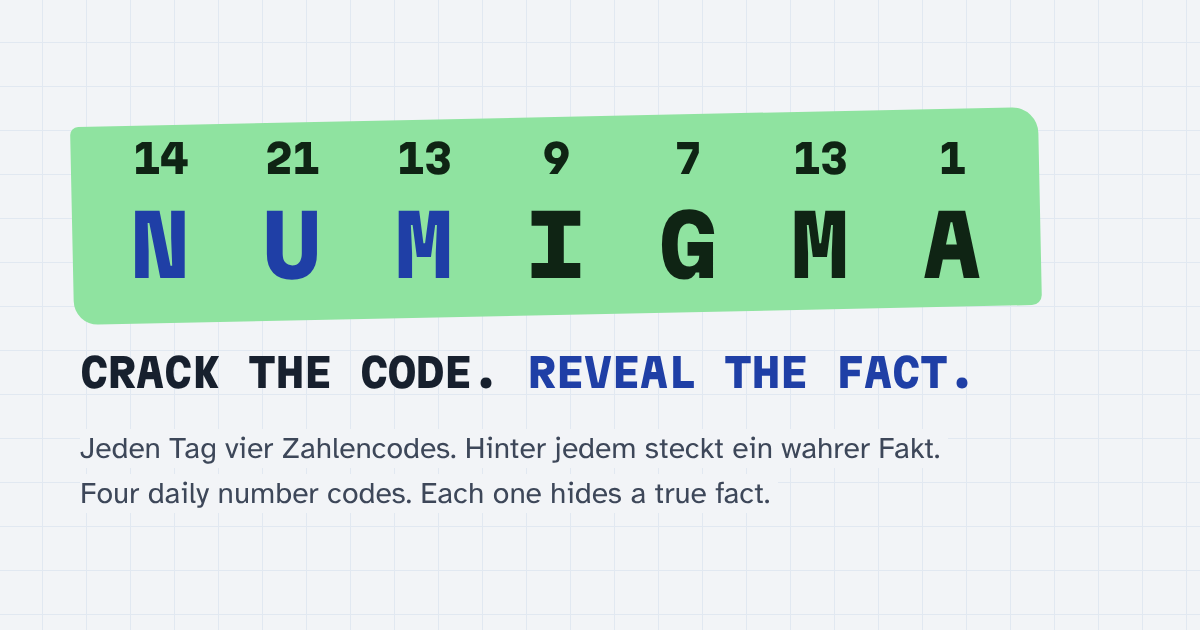
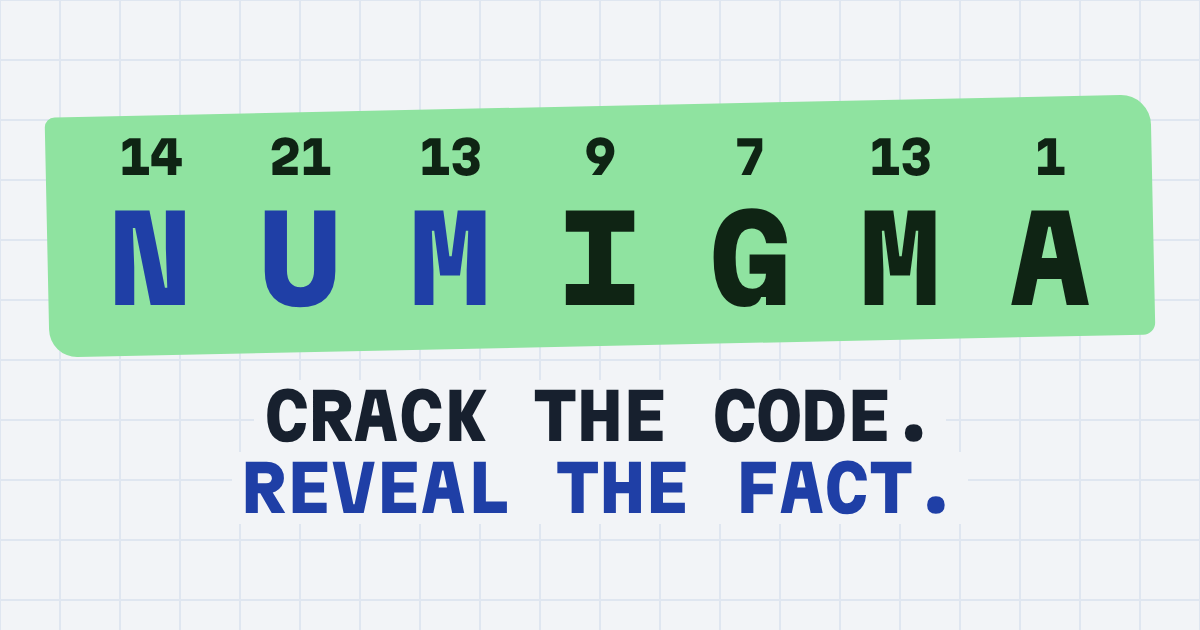
Vorschaubild vereinfacht, Wiederholungslücken stabil, Redaktionsanleitung und Werkzeuge
- og.png: großes Logo und Slogan, ohne Kleingedrucktes, auch als kleine Vorschau lesbar
- kern.js: repeatGaps, damit nachgelieferte Fakten bereits gespielte Wiederholungstage nicht verändern (mit Test)
- Querformat ab 640 px, kleines Handy quer bittet ums Drehen und hält die Uhr an
- Anleitung für neue Fakten, Belegsuche, Nachweis-Skript

Claude-Session: https://claude.ai/code/session_01UizJ3MfA2PHDqjVNM3Cj6o

diff --git a/_dev/tools/nachweise.js b/_dev/tools/nachweise.js
@@ -1,0 +1,94 @@
+/* Bildschirmfotos und Messwerte für _dev/nachweise/nachher (Vergleich mit vorher).
+   Aufruf im Ordner _dev: node tools/nachweise.js */
+'use strict';
+const fs = require('fs');
+const path = require('path');
+const { setup, openPage, solution, NF } = require('../tests/browser');
+
+const OUT = path.join(__dirname, '..', 'nachweise', 'nachher');
+fs.mkdirSync(OUT, { recursive: true });
+const R = {};
+
+(async () => {
+  const env = await setup();
+  const shots = [[390, 844, 'light', 'de', '390-de-hell'], [390, 844, 'dark', 'en', '390-en-dunkel'], [320, 568, 'light', 'de', '320-de-hell']];
+  for (const [width, height, scheme, lang, name] of shots) {
+    const ctx = await env.browser.newContext({ viewport: { width, height }, deviceScaleFactor: 2, colorScheme: scheme, locale: lang === 'de' ? 'de-AT' : 'en-GB', timezoneId: 'Europe/Vienna', serviceWorkers: 'block', hasTouch: true, isMobile: true });
+    await ctx.clock.install({ time: new Date('2026-10-24T15:00:00+02:00') });
+    const page = await ctx.newPage();
+    await page.goto(env.srv.url);
+    await page.waitForTimeout(200);
+    await page.screenshot({ path: path.join(OUT, `${name}-1-erster-besuch.png`) });
+    R[`${name} Kurz-Einstieg passt ohne Scrollen`] = await page.evaluate(() => { const d = document.getElementById('introDlg'); return d.scrollHeight <= d.clientHeight + 1; });
+    const word = lang === 'de' ? 'EIS' : 'CAT';
+    for (const L of word) await page.click(`#introBody [data-demo="${L}"]`);
+    await page.screenshot({ path: path.join(OUT, `${name}-1b-erster-besuch-geknackt.png`) });
+    await page.click('#introGo');
+    await page.screenshot({ path: path.join(OUT, `${name}-2-start.png`) });
+    await page.click('#startBtn');
+    await page.waitForTimeout(100);
+    if (width === 320) R['320 px: Tastenbreite px'] = await page.evaluate(() => Math.round(document.querySelector('.k[data-k="Q"] button').getBoundingClientRect().width * 10) / 10);
+    await page.screenshot({ path: path.join(OUT, `${name}-3-spiel.png`) });
+    await page.click('#statsBtn');
+    await page.waitForTimeout(100);
+    R[`${name} Code bei offenem Dialog sichtbar`] = await page.evaluate(() => getComputedStyle(document.querySelector('#board .words')).visibility !== 'hidden');
+    await page.screenshot({ path: path.join(OUT, `${name}-4-dialog-uhr-pausiert-code-verdeckt.png`) });
+    await page.keyboard.press('Escape');
+    await page.click('#pauseBtn');
+    await page.screenshot({ path: path.join(OUT, `${name}-5-pause.png`) });
+    await page.click('#resumeBtn');
+    await page.click('#helpBtn');
+    R[`${name} Anleitung Höhe px (zugeklappt)`] = await page.evaluate(() => Math.round(document.querySelector('#helpDlg').scrollHeight));
+    await page.screenshot({ path: path.join(OUT, `${name}-6-anleitung.png`) });
+    await page.keyboard.press('Escape');
+    for (const w of solution(4, lang, 'easy')) for (const ch of w) { if (/[A-Z]/.test(ch)) await page.keyboard.press(ch); else await page.click(`#kb .k[data-k="${ch}"] button`); }
+    await page.waitForTimeout(300);
+    await page.evaluate(() => { document.getElementById('stage').scrollTop = 1e6; });
+    await page.screenshot({ path: path.join(OUT, `${name}-7-ergebnis.png`) });
+    await ctx.close();
+  }
+  // Querformat
+  {
+    const page = await openPage(env, { width: 844, height: 390, mobile: true });
+    await page.click('#startBtn');
+    await page.screenshot({ path: path.join(OUT, '844x390-de-hell-querformat.png') });
+    await page.context().close();
+  }
+  // Hilfe-Farben: dasselbe Vorgehen wie vorher (Schlüssel bei Wort 1, Tipp bei Wort 2 überschrieben)
+  {
+    const page = await openPage(env, { clipboard: true });
+    await page.click('#tab-hard'); await page.click('#startBtn');
+    const hw = solution(4, 'de', 'hard');
+    await page.click('#keyBtn'); await page.click('#confirmYes');
+    for (const w of [hw[0]]) for (const L of w) await page.click(`#kb .k[data-k="${L}"] button`);
+    await page.click('#board .w[data-w="1"] .c[data-i="0"]'); await page.click('#hintBtn');
+    await page.click('#board .w[data-w="1"] .c[data-i="0"]'); await page.click('#kb .k[data-k="Q"] button');
+    for (let wi = 1; wi < hw.length; wi++) {
+      await page.click(`#board .w[data-w="${wi}"] .c[data-i="0"]`);
+      for (const L of hw[wi]) await page.click(`#kb .k[data-k="${L}"] button`);
+    }
+    await page.click('#result [data-act=share]');
+    R['Hilfe-Farben: Teilen-Text nach Schlüssel (Wort 1) und überschriebenem Tipp (Wort 2)'] = (await page.evaluate(() => navigator.clipboard.readText())).replace(/http:\/\/127\.0\.0\.1:\d+\//, 'https://gr3hab.github.io/numfact/');
+    await page.context().close();
+  }
+  // Prüfseite: wie GitHub Pages ausgeliefert?
+  {
+    const page = await (await env.browser.newContext()).newPage();
+    const r = await page.goto(env.srv.url + 'pruefen.html');
+    R['pruefen.html HTTP-Status (Hauptordner)'] = r.status();
+    const r2 = await page.goto(env.srv.url + '_dev/tools/pruefen.html');
+    R['_dev/tools/pruefen.html HTTP-Status'] = r2.status();
+    await page.context().close();
+  }
+  await env.close();
+  // Zuordnung DE/EN und Buchstaben pro Stufe über den ganzen Vorrat
+  const P = NF.plannedDays(); let mism = 0; const days = []; const letters = { easy: 0, hard: 0, mirror: 0, impossible: 0 };
+  for (let d = 0; d < P; d++) {
+    const k = NF.addDays(NF.CONFIG.launchDate, d), D = NF.buildDay(k, 'de'), E = NF.buildDay(k, 'en');
+    if (NF.MODES.some(m => D.puzzles[m.id].fact.id !== E.puzzles[m.id].fact.id)) { mism++; days.push(d + 1); }
+    NF.MODES.forEach(m => { letters[m.id] += D.puzzles[m.id].words.reduce((n, w) => n + [...w.plain].length, 0); });
+  }
+  R[`Zuordnung DE/EN und Buchstaben (${P} Tage)`] = { mism, days, avgLetters: Object.fromEntries(Object.entries(letters).map(([k, v]) => [k, Math.round(v / P)])) };
+  fs.writeFileSync(path.join(OUT, 'messwerte.json'), JSON.stringify(R, null, 1));
+  console.log(JSON.stringify(R, null, 1));
+})();

diff --git a/kern.js b/kern.js
@@ -13,7 +13,11 @@ const CONFIG = {
   hintsPerPuzzle: 3,
   maxCells: 18,               // so viele Kästchen passen auf kleinen Handys (360 px) in eine Zeile
   frozenDays: 16,             // #1–#16 behalten ihre ursprüngliche Zuordnung (nicht ändern)
-  warnDays: 14                // Warnung, wenn der Faktenvorrat für weniger Tage reicht
+  warnDays: 14,               // Warnung, wenn der Faktenvorrat für weniger Tage reicht
+  // Nur nötig, falls der Vorrat einmal ausgegangen ist: Zeiträume, in denen Wiederholungen liefen.
+  // Vor dem Anhängen neuer Fakten hier eintragen, z. B. [['2027-02-01', '2027-02-04']],
+  // damit diese Tage im Archiv unverändert bleiben. Die Tests melden, wenn das vergessen wurde.
+  repeatGaps: []
 };
 
 const MODES = [
@@ -96,7 +100,10 @@ function view(f, lang) {
 function facts(lang) { return list().map(f => view(f, lang)); }
 function byId(id) { return list().find(f => f.id === id); }
 function plannedDays() { return Math.floor(list().length / 4); }
-function lastPlannedDay() { return addDays(CONFIG.launchDate, plannedDays() - 1); }
+function lastPlannedDay() {
+  const gaps = (CONFIG.repeatGaps || []).reduce((n, [a, b]) => n + dayIndex(b) - dayIndex(a) + 1, 0);
+  return addDays(CONFIG.launchDate, plannedDays() - 1 + gaps);
+}
 
 /* ------------------------------------------------------------ Zuordnung zu Tagen und Stufen
    Tag #n nimmt die Fakten 4n-3 bis 4n der Liste.
@@ -123,11 +130,23 @@ function makePuzzle(fact, mode, shift) {
 }
 
 // Ist der Vorrat aufgebraucht, wird ein früherer Tag bewusst und sichtbar wiederholt (repeatOf).
+// Welcher Tag welche Fakten bekommt: Platz in der Liste = Tag minus frühere Wiederholungstage.
+function sourceOf(idx) {
+  const P = plannedDays();
+  let before = 0;
+  for (const [a, b] of CONFIG.repeatGaps || []) {
+    const ia = dayIndex(a), ib = dayIndex(b);
+    if (idx >= ia && idx <= ib) return { src: ia > 0 ? idx % ia : 0, repeat: true };   // damals war der Vorrat bei Tag ia zu Ende
+    if (idx > ib) before += ib - ia + 1;
+  }
+  const slot = idx - before;
+  if (slot >= P && P > 0) return { src: slot % P, repeat: true };
+  return { src: slot, repeat: false };
+}
 function buildDay(key, lang) {
   lang = lang === 'en' ? 'en' : 'de';
-  const idx = Math.max(0, dayIndex(key)), P = plannedDays();
-  let src = idx, repeatOf = null;
-  if (idx >= P && P > 0) { src = idx % P; repeatOf = src + 1; }
+  const idx = Math.max(0, dayIndex(key));
+  const so = sourceOf(idx), src = so.src, repeatOf = so.repeat ? src + 1 : null;
   const picks = assignment(src, lang);
   const shift = 3 + Math.floor(mulberry32(idx * 7919 + 101)() * 21); // 3 … 23
   const puzzles = {};
@@ -188,5 +207,5 @@ function checkFacts(today) {
 }
 
 window.NF = { CONFIG, MODES, TOPICS, ALPHABET, SPECIAL, DIGRAPH, FROZEN, symStr, letterCode, mulberry32, todayKey, parseKey, dayIndex, addDays, keyOfNumber,
-  list, facts, byId, plannedDays, lastPlannedDay, assignment, buildDay, wordUnits, checkFacts };
+  list, facts, byId, plannedDays, lastPlannedDay, sourceOf, assignment, buildDay, wordUnits, checkFacts };
 })();

diff --git a/_dev/tests/daten.test.js b/_dev/tests/daten.test.js
@@ -5,7 +5,7 @@ const assert = require('node:assert/strict');
 const fs = require('fs');
 const path = require('path');
 const { execFileSync } = require('child_process');
-const { ROOT, loadNF, rawFacts, loadBase, latestLiveKey } = require('./helpers');
+const { ROOT, loadNF, rawFacts, loadBase, latestLiveKey, loadFromSources } = require('./helpers');
 
 const NF = loadNF();
 const F = rawFacts();
@@ -162,4 +162,22 @@ test('Datei fakten.js ist sauber kodiert (UTF-8, keine unsichtbaren Zeichen)', (
   const txt = src.toString('utf8');
   assert.ok(!txt.includes('�'), 'kaputtes Zeichen (�) gefunden');
   assert.doesNotMatch(txt, /[-]/, 'unsichtbare Zeichen gefunden');
+});
+
+test('Nach einer Lücke angehängte Fakten verändern die Wiederholungstage nicht', () => {
+  const kern = fs.readFileSync(path.join(ROOT, 'kern.js'), 'utf8');
+  const mk = n => Array.from({ length: n }, (_, i) => ({ id: 'n' + String(i + 1).padStart(3, '0'), thema: 'tiere', de: ['Satz Nummer ' + (i + 1) + '.', 'Erklärung lang genug.'], en: ['Sentence ' + (i + 1) + '.', 'Explanation long enough.'], quellen: [] }))
+    .map(f => ({ ...f, de: [f.de[0].replace(/\d+/, n => 'x'.repeat(+n)), f.de[1]], en: [f.en[0].replace(/\d+/, n => 'y'.repeat(+n)), f.en[1]] }));
+  const load = (facts, gaps) => loadFromSources([['f.js', 'window.NUMIGMA_FACTS = ' + JSON.stringify(facts) + ';'], ['kern.js', kern.replace('repeatGaps: []', 'repeatGaps: ' + JSON.stringify(gaps))]]);
+  const before = load(mk(80), []);                      // 20 Tage Vorrat
+  const gapDays = [20, 21, 22].map(i => before.addDays(before.CONFIG.launchDate, i));
+  const sigs = nf => gapDays.map(k => MODES.map(m => nf.buildDay(k, 'de').puzzles[m].sig).join('|'));
+  const old = sigs(before);
+  assert.ok(gapDays.every(k => before.buildDay(k, 'de').repeatOf));
+  const after = load(mk(120), [[gapDays[0], gapDays[2]]]);   // 10 Tage nachgeliefert, Lücke eingetragen
+  assert.deepEqual(sigs(after), old, 'Wiederholungstage dürfen sich nicht ändern');
+  const next = after.buildDay(after.addDays(after.CONFIG.launchDate, 23), 'de');
+  assert.equal(next.repeatOf, null);
+  assert.equal(next.puzzles.easy.fact.id >= 'n081', true, 'erster Tag nach der Lücke bekommt neue Fakten');
+  assert.equal(after.lastPlannedDay(), after.addDays(after.CONFIG.launchDate, 32));
 });

diff --git a/_dev/grafik/og.html b/_dev/grafik/og.html
@@ -1,0 +1,25 @@
+<!doctype html><html><head><meta charset="utf-8">
+<!-- Vorschaubild für geteilte Links (og.png, 1200×630). Erzeugen: node _dev/grafik/render.js -->
+<style>
+@font-face{font-family:"Martian Mono";font-weight:800;src:url(../../fonts/martian-mono-latin-800-normal.woff2) format("woff2")}
+@font-face{font-family:"Martian Mono";font-weight:700;src:url(../../fonts/martian-mono-latin-700-normal.woff2) format("woff2")}
+html,body{margin:0}
+body{width:1200px;height:630px;box-sizing:border-box;padding:0 60px;background:#f2f4f7;color:#17202e;
+ background-image:linear-gradient(#dfe6f0 2px,transparent 2px),linear-gradient(90deg,#dfe6f0 2px,transparent 2px);background-size:60px 60px;background-position:-1px -1px;
+ display:flex;flex-direction:column;align-items:center;justify-content:center;gap:34px}
+.logo{position:relative;display:flex;padding:14px 18px 22px}
+.logo::before{content:"";position:absolute;inset:0 -10px;background:#8fe3a0;border-radius:10px 30px 12px 28px;transform:rotate(-1.2deg)}
+.col{position:relative;display:flex;flex-direction:column;align-items:center;width:150px}
+.col b{height:72px;display:grid;place-items:center;font-family:"Martian Mono",monospace;font-weight:800;font-size:46px;color:#0f2414;letter-spacing:-.02em}
+.col span{height:132px;display:grid;place-items:center;font-family:"Martian Mono",monospace;font-weight:800;font-size:118px;line-height:1;color:#0f2414}
+.col.num span{color:#1f3fa6}
+.tag{font-family:"Martian Mono",monospace;font-weight:800;font-size:64px;line-height:1.12;text-align:center;white-space:nowrap;display:flex;flex-direction:column;align-items:center}
+.tag span{background:#f2f4f7;padding:0 10px}
+.tag em{font-style:normal;color:#1f3fa6}
+</style></head><body>
+<div class="logo">
+  <div class="col num"><b>14</b><span>N</span></div><div class="col num"><b>21</b><span>U</span></div><div class="col num"><b>13</b><span>M</span></div>
+  <div class="col"><b>9</b><span>I</span></div><div class="col"><b>7</b><span>G</span></div><div class="col"><b>13</b><span>M</span></div><div class="col"><b>1</b><span>A</span></div>
+</div>
+<div class="tag"><span>CRACK THE CODE.</span><span><em>REVEAL THE FACT.</em></span></div>
+</body></html>

diff --git a/index.html b/index.html
@@ -1680,11 +1680,11 @@ async function doShare(btn) {
 
 /* ============================================================ Archiv, Einstellungen, Anleitung, Kurz-Einstieg */
 function renderArchive() {
-  const t = T().archive, tk = realToday(), n = Math.max(0, dayIndex(tk)), map = daysMap(), P = NF.plannedDays();
+  const t = T().archive, tk = realToday(), n = Math.max(0, dayIndex(tk)), map = daysMap();
   let html = dlgHead('archiveTitle', t.title) + `<p class="small">${esc(t.intro)}</p><div class="days" id="days">`;
   for (let i = n; i >= 0; i--) {
     const key = addDays(CONFIG.launchDate, i), d = map[key] || {};
-    const rep = P > 0 && i >= P ? (i % P) + 1 : null;
+    const so = NF.sourceOf(i), rep = so.repeat ? so.src + 1 : null;
     const marks = MODES.map(m => {
       const s = d[m.id], st = (s && s.status) || 'open';
       const cls = st === 'solved' ? 's' : st === 'revealed' ? 'v' : st === 'playing' ? 'p' : '';

diff --git a/_dev/grafik/render.js b/_dev/grafik/render.js
@@ -1,0 +1,13 @@
+/* Rendert og.png aus og.html (Playwright). Aufruf im Ordner _dev: node grafik/render.js */
+'use strict';
+const path = require('path');
+const { chromium } = require('playwright');
+(async () => {
+  const b = await chromium.launch();
+  const p = await b.newPage({ viewport: { width: 1200, height: 630 }, deviceScaleFactor: 1 });
+  await p.goto('file://' + path.join(__dirname, 'og.html'));
+  await p.evaluate(() => document.fonts.ready);
+  await p.screenshot({ path: path.join(__dirname, '..', '..', 'og.png') });
+  await b.close();
+  console.log('og.png geschrieben');
+})();

diff --git a/_dev/tools/belege.py b/_dev/tools/belege.py
@@ -1,0 +1,83 @@
+#!/usr/bin/env python3
+"""Belegsuche für die Redaktion: lädt Wikipedia-Artikel (Klartext) und zeigt die Sätze, die zu Suchmustern passen.
+
+Aufruf:  python3 tools/belege.py spec.json [--out belege.json]
+spec.json: { "n001": [["en", "Sloth", ["breath", "40 minutes"]], ["de", "Faultiere", ["Luft", "Minuten"]]], ... }
+
+Die Artikel werden in _dev/.cache/ zwischengespeichert. Ausgabe: je Fakt die gefundenen Sätze mit Adresse.
+Das Werkzeug erfindet nichts: Es zeigt nur, was tatsächlich im Artikel steht. Die Bewertung macht ein Mensch.
+"""
+import json, os, random, re, sys, time, urllib.error, urllib.parse, urllib.request
+
+UA = 'NUMIGMA-Faktencheck/1.0 (https://github.com/Gr3hab/numfact)'
+CACHE = os.path.join(os.path.dirname(__file__), '..', '.cache', 'wiki')
+os.makedirs(CACHE, exist_ok=True)
+
+
+def fetch(lang, title):
+    key = re.sub(r'[^\w-]+', '_', f'{lang}_{title}')[:150]
+    path = os.path.join(CACHE, key + '.json')
+    if os.path.exists(path):
+        with open(path, encoding='utf-8') as f:
+            return json.load(f)
+    q = urllib.parse.urlencode({'action': 'query', 'format': 'json', 'prop': 'extracts|info', 'inprop': 'url',
+                                'explaintext': 1, 'redirects': 1, 'titles': title})
+    url = f'https://{lang}.wikipedia.org/w/api.php?{q}'
+    # Wikipedia begrenzt die Zahl der Anfragen: bei 429 geduldig warten und nochmal versuchen
+    for attempt in range(10):
+        try:
+            with urllib.request.urlopen(urllib.request.Request(url, headers={'User-Agent': UA}), timeout=30) as r:
+                data = json.load(r)
+            break
+        except urllib.error.HTTPError as e:
+            if e.code != 429 or attempt == 9:
+                raise
+            wait = int(e.headers.get('retry-after') or 2)
+            time.sleep(wait + 2 * attempt + random.random() * 2)
+        except Exception:  # noqa: BLE001
+            if attempt == 9:
+                raise
+            time.sleep(3 + attempt)
+    page = next(iter(data['query']['pages'].values()))
+    out = {'title': page.get('title', title), 'url': page.get('fullurl', ''), 'text': page.get('extract', ''), 'missing': 'missing' in page}
+    with open(path, 'w', encoding='utf-8') as f:
+        json.dump(out, f, ensure_ascii=False)
+    time.sleep(1.5)
+    return out
+
+
+def sentences(text):
+    text = re.sub(r'\s+', ' ', text)
+    return re.split(r'(?<=[.!?])\s+(?=[A-ZÄÖÜ0-9"„(])', text)
+
+
+def main():
+    spec = json.load(open(sys.argv[1], encoding='utf-8'))
+    out_path = sys.argv[sys.argv.index('--out') + 1] if '--out' in sys.argv else None
+    result = {}
+    for fid, items in spec.items():
+        result[fid] = []
+        for lang, title, pats in items:
+            a = fetch(lang, title)
+            if a['missing'] or not a['text']:
+                result[fid].append({'lang': lang, 'title': title, 'url': '', 'hits': [], 'missing': True})
+                continue
+            hits = []
+            for s in sentences(a['text']):
+                if any(re.search(p, s, re.I) for p in pats):
+                    hits.append(s.strip()[:360])
+            result[fid].append({'lang': lang, 'title': a['title'], 'url': a['url'], 'hits': hits[:5]})
+    if out_path:
+        old = json.load(open(out_path, encoding='utf-8')) if os.path.exists(out_path) else {}
+        old.update(result)
+        json.dump(old, open(out_path, 'w', encoding='utf-8'), ensure_ascii=False, indent=1)
+    for fid, rows in result.items():
+        print(f'=== {fid}')
+        for r in rows:
+            print(f"  [{r['lang']}] {r['title']} {r['url']}" + ('  (FEHLT)' if r.get('missing') else ''))
+            for h in r['hits']:
+                print('     · ' + h)
+
+
+if __name__ == '__main__':
+    main()

diff --git a/_dev/redaktion/ANLEITUNG.md b/_dev/redaktion/ANLEITUNG.md
@@ -1,0 +1,53 @@
+# Neue Fakten für NUMIGMA
+
+Jeder Tag braucht vier Fakten. Sie stehen alle in `fakten.js` im Hauptordner, in beiden Sprachen.
+
+## So sieht ein Eintrag aus
+
+```js
+{ id: 'n405', thema: 'weltall',
+  de: ['Ein Tag auf dem Mars dauert etwas länger als bei uns.', 'Der Mars dreht sich in 24 Stunden und 37 Minuten einmal um sich selbst …'],
+  en: ['A day on Mars is a little longer than a day on Earth.', 'Mars spins once in 24 hours and 37 minutes …'],
+  quellen: [{ name: 'Wikipedia (en): Mars', url: 'https://en.wikipedia.org/wiki/Mars' }] },
+```
+
+- `id`: die nächste freie Nummer (die letzte ID in der Datei plus eins).
+- `thema`: eines von `tiere`, `pflanzen`, `weltall`, `wissenschaft`, `koerper`, `geschichte`, `geografie`, `technik`, `kultur`, `oesterreich`.
+- `de` und `en`: jeweils `[Satz, Erklärung]`. Derselbe Fakt in beiden Sprachen.
+- `quellen`: mindestens eine echte, öffentlich abrufbare Quelle mit `https://`. Sie erscheint nach dem Lösen unter der Erklärung.
+
+## Regeln für den Satz (das, was entschlüsselt wird)
+
+- Nur Buchstaben und Leerzeichen, am Ende ein Punkt.
+- Keine Ziffern, Kommas, Bindestriche, Apostrophe. Zahlen ausschreiben („vierzig“). Sätze mit Nebensatz so umbauen, dass kein Komma nötig ist.
+- Ä, Ö, Ü und ß nur im Deutschen. Im Englischen auch kein „it's“ oder „Earth's“ („of the Earth“ schreiben).
+- Kurz halten: am besten 25 bis 45 Buchstaben. Der zweitkürzeste Satz eines Tages wird Easy, der kürzeste Impossible.
+- Keine sehr langen Wörter (mehr als etwa 16 Buchstaben, z. B. „Oberschenkelknochen“). Sie passen auf kleinen Handys nicht in eine Zeile. Die Prüfseite meldet das.
+- Die Erklärung darf alles enthalten (Zahlen, Kommas). Sie sollte in zwei, drei Sätzen erklären, warum das stimmt.
+
+## Regeln für den Inhalt
+
+- **Nur geprüfte Fakten.** Vor dem Eintragen in mindestens einer verlässlichen Quelle nachlesen (Wikipedia mit Belegen, Museen, Universitäten, NASA, Behörden). Nie eine Quelle angeben, die man nicht selbst gelesen hat.
+- Bei Superlativen genau sein: „ältester noch bestehender Zoo“ statt „ältester Zoo“, „kein Land hat mehr Seen“ statt „mehr Seen als der Rest der Welt“.
+- Mythen sind gute Fakten, wenn die Auflösung belegt ist („Wikinger trugen keine Hörnerhelme“).
+- An einem Tag sollen vier verschiedene Themen vorkommen. Nicht zwei Elefanten-Fakten hintereinander.
+- Englisch soll natürlich klingen, nicht wörtlich übersetzt.
+
+## Reihenfolge und veröffentlichte Rätsel
+
+- Tag #n nimmt die Einträge 4n−3 bis 4n der Liste. **Neue Fakten immer ganz unten anhängen.**
+- Einträge von Tagen, die schon erschienen sind, **nie umsortieren, löschen oder im Satz ändern**. Sonst ändern sich Rätsel, die Leute schon gespielt haben. Die automatischen Tests verhindern das.
+- Ein Fehler in der Erklärung eines veröffentlichten Fakts darf korrigiert werden. Im Pull Request begründen und in `QUELLENPRUEFUNG.md` eintragen.
+- Künftige Tage dürfen umgestellt werden, zum Beispiel für eine bessere Themenmischung. Der Faktenbericht im GitHub-Lauf listet jede Änderung am Fahrplan auf, damit nichts unbemerkt passiert.
+
+## Prüfen
+
+1. `_dev/tools/pruefen.html` im Browser öffnen (Doppelklick genügt). Sie zeigt Fehler, Hinweise, wie lange der Vorrat reicht und die kommenden Rätsel mit Lösungen. Die Seite wird nicht veröffentlicht.
+2. Änderung als Pull Request einreichen. GitHub führt alle Tests aus und schreibt den Faktenbericht in die Zusammenfassung des Laufs.
+3. Erst wenn alles grün ist, zusammenführen. Nach ein paar Minuten ist es live.
+
+Belege schneller finden: `python3 _dev/tools/belege.py spec.json` lädt Wikipedia-Artikel und zeigt die Sätze, die zu Suchwörtern passen. Das Werkzeug ersetzt nicht das Lesen, es hilft nur beim Finden.
+
+## Wenn der Vorrat knapp wird
+
+Jeden Montag prüft GitHub, ob die Fakten noch mindestens 14 Tage reichen. Wenn nicht, schlägt der Lauf „Tests“ fehl und GitHub schickt eine E-Mail. Ist der Vorrat ganz aufgebraucht, wiederholt das Spiel frühere Tage der Reihe nach und sagt das offen („Wiederholung von #3“). Um die Wiederholung zu beenden: in `kern.js` unter `repeatGaps` den Zeitraum eintragen, in dem Wiederholungen liefen (zum Beispiel `[['2027-02-01', '2027-02-04']]`), dann neue Fakten unten anhängen. So bleiben die Wiederholungstage im Archiv unverändert und der nächste Tag bekommt die neuen Fakten. Wird das Eintragen vergessen, schlagen die Tests fehl.
